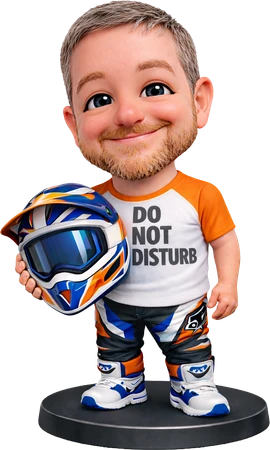
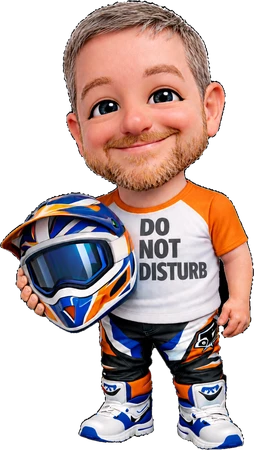
Hero greeters: new art with the display stand removed
Five of the six re-cut so they stand on the hero floor rather than on a
moulded disc. Same people, same order, same rotation — only the images.
Jerry never had a stand and is untouched; Crystal keeps her garden scene,
which is her artwork rather than a stand.

Re-cutting moved the trimmed aspects, and the widest greeter changed
person: 0.39 (Jerry) to 0.63 (James), was 0.39 to 0.60 (Jacob). The
figures are height-sized, so the widest now takes ~47px more of the hero
row than the narrowest, up from ~40px. Corrected in the comments and docs
rather than left to go stale.

Transparency checked against magenta, not the hero green — a white box or
a pale halo is invisible on a light backdrop. All five carry a real alpha
channel with transparent corners and no fringe.

diff --git a/app/home/HomeContent.tsx b/app/home/HomeContent.tsx
@@ -358,9 +358,9 @@ export function HomeContent({
                 what does that — not a magic offset.
 
                 Sized by HEIGHT with w-auto, so each figure keeps its own build: the
-                trimmed aspects run 0.39–0.60, meaning the widest greeter takes about
-                40px more of the row than the narrowest. The bubble is w-fit inside a
-                min-w-0 track, so it absorbs that rather than overflowing.
+                trimmed aspects run 0.39–0.63, meaning the widest greeter takes about
+                47px more of the row than the narrowest at lg. The bubble is w-fit
+                inside a min-w-0 track, so it absorbs that rather than overflowing.
 
                 Hidden below `sm`: at phone width the figure would eat the greeting,
                 and the greeting is the part that has to survive. */}

diff --git a/lib/home-content.ts b/lib/home-content.ts
@@ -258,9 +258,9 @@ export function coreValueOfWeek(now: Date): { value: CoreValue; index: number; t
        .toFile('public/bobbleheads/<slug>.webp')
 
    They are SIZED BY HEIGHT in the hero, never width: the trimmed aspects run from
-   0.39 (Jerry, Kacy) to 0.60 (Jacob), so one width-driven box would make the
-   narrow ones tower over the hero and the wide ones shrink. 450px tall is a bit
-   over 2x the largest render, which is the resolution ceiling worth shipping.
+   0.39 (Jerry) to 0.63 (James), so one width-driven box would make the narrow ones
+   tower over the hero and the wide ones shrink. 450px tall is a bit over 2x the
+   largest render, which is the resolution ceiling worth shipping.
 
    Jerry's file is a byte copy of the original public/jerry-hero.webp, so his art
    is unchanged from when it was the only one. */

diff --git a/docs/company-home.md b/docs/company-home.md
@@ -244,12 +244,18 @@ regeneration command lives in the comment above `BOBBLEHEADS`. `public/jerry-her
 is kept as the source of the byte-identical `public/bobbleheads/jerry.webp`, so Jerry's
 art is unchanged from when he was the only greeter.
 
-They are **sized by height, not width**. The trimmed aspects run from 0.39 (Jerry,
-Kacy) to 0.60 (Jacob), so one width-driven box would make the narrow ones tower over
-the hero and shrink the wide ones. The consequence of height-sizing is that the widest
-greeter takes about 40px more of the hero row than the narrowest; the bubble is
+They are **sized by height, not width**. The trimmed aspects run from 0.39 (Jerry) to
+0.63 (James), so one width-driven box would make the narrow ones tower over the hero
+and shrink the wide ones. The consequence of height-sizing is that the widest greeter
+takes about 47px more of the hero row than the narrowest at `lg`; the bubble is
 `w-fit` inside a `min-w-0` track and absorbs it. 450px tall is a little over 2× the
 largest render.
+
+**The art has no stand.** The five non-Jerry figures were re-cut on 2026-09-02 to remove
+the disc each bobblehead was standing on, so they stand directly on the hero floor.
+Jerry never had one. Crystal keeps her garden scene, which is part of her artwork rather
+than a stand. Verified against a magenta backdrop: transparent corners, no white box, no
+halo. Re-cut art changes the aspects — re-measure and update the numbers above.
 
 ⚠ **A green build proves nothing here.** The prop is destructured, typed and passed —
 none of which means it is drawn. Check the compiled JSX (or the page) for an `<img>`

diff --git a/CHANGELOG.md b/CHANGELOG.md
@@ -10,6 +10,24 @@ nothing can drift out of step. The weekly report covers exactly one edition. An
 occasional *interim* update can cover a few days between Mondays; it is labeled and
 filed as an interim, and never replaces the edition it sits inside.
 
+## 2026-09-02 — The greeters step off their stands
+
+**New art for five of the six hero bobbleheads, with the display base removed.** They now
+stand directly on the hero floor rather than on a moulded disc. Same people, same order,
+same rotation — only the images changed. Jerry never had a stand, so his art is untouched
+for the second day running; Crystal keeps her garden scene, which is part of her artwork
+rather than a stand.
+
+Re-cutting the art moved the trimmed aspect ratios, and the widest greeter is no longer
+the same person: the range is now 0.39 (Jerry) to 0.63 (James), where it was 0.39 to 0.60
+(Jacob). That matters because the figures are sized by height, so the widest one takes
+about 47px more of the hero row than the narrowest — up from 40px. The comments and docs
+carrying those numbers were corrected rather than left to go quietly stale.
+
+Checked against a magenta backdrop rather than the hero green, because a white box or a
+pale halo is invisible on a light background and obvious on magenta. All five have a real
+alpha channel, transparent corners, and no fringe.
+
 ## 2026-09-01 — Six of us take turns greeting the Hub
 
 **The Company Home hero now rotates through six bobbleheads, one a day.** Jerry had the
